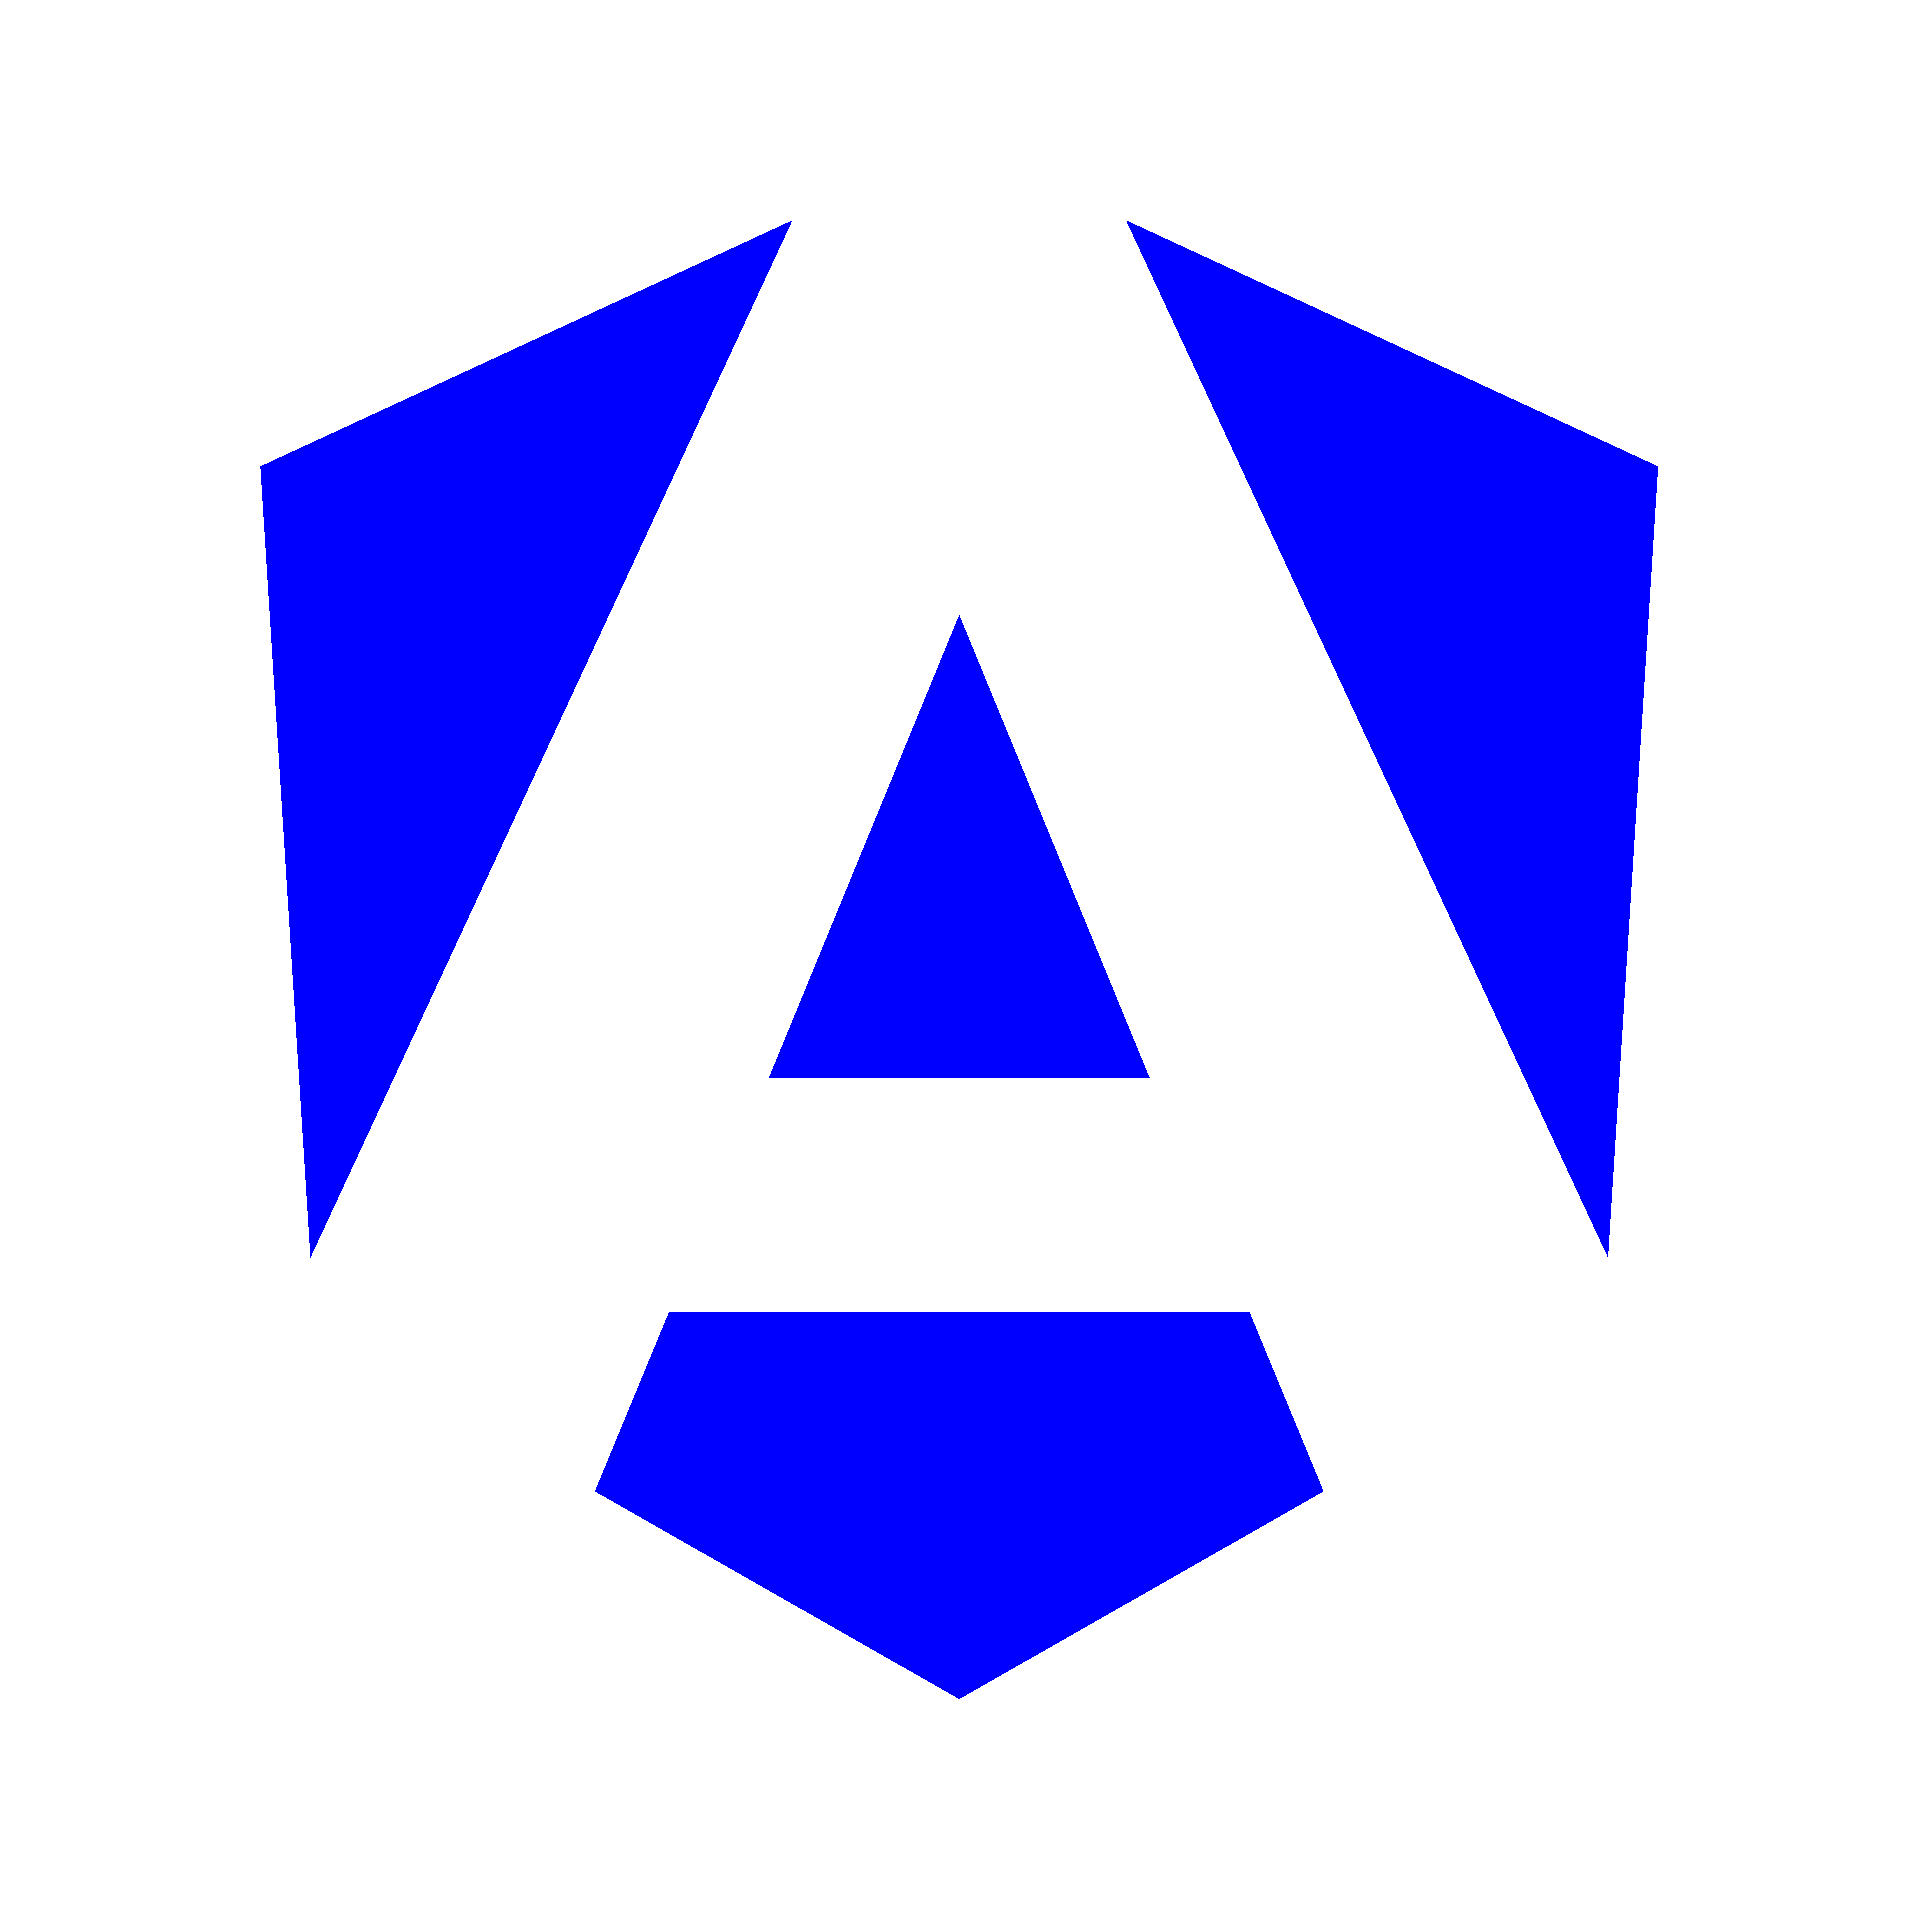
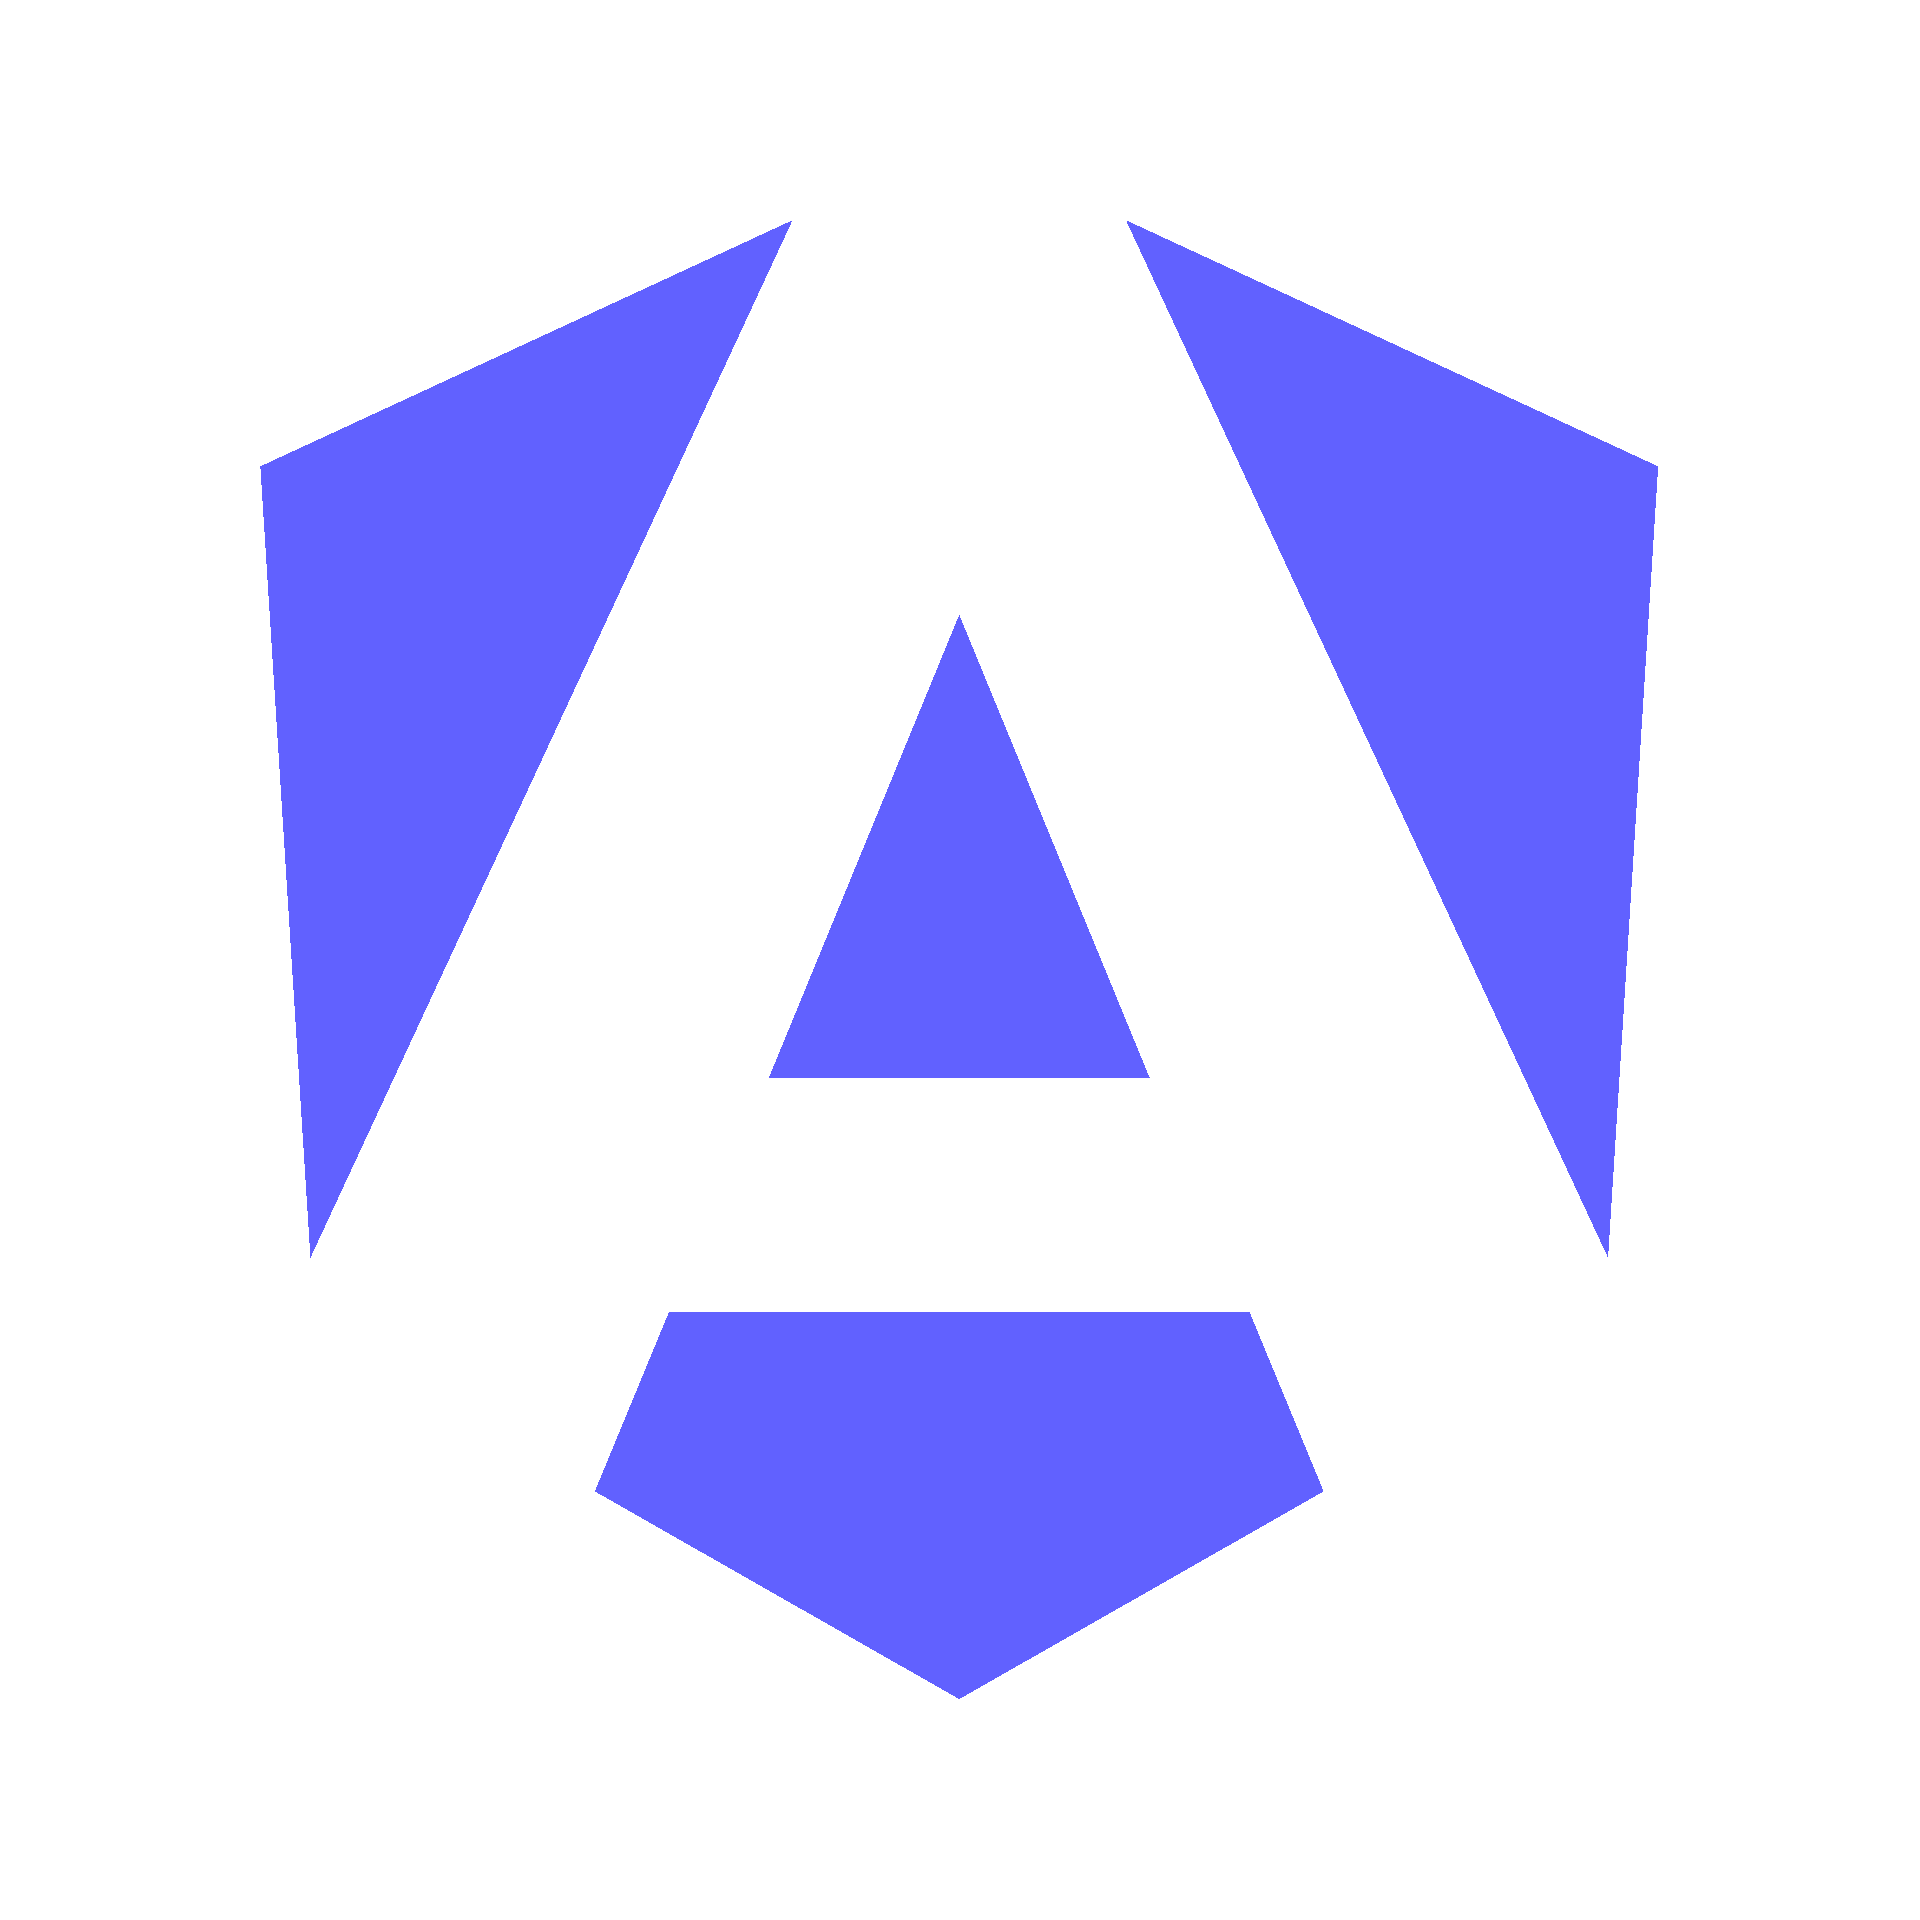
Modified contrasts

diff --git a/src/app/pages/main-page/main-page.component.css b/src/app/pages/main-page/main-page.component.css
@@ -48,7 +48,7 @@ section h2 {
 .title span:after {
   padding-left: 0.5rem;
   content: "Théotim ALBERTEAU";
-  color: blue;
+  color: var(--title);
   text-shadow: darkblue 0 0 7px;
   font-weight: 600;
   font-size: 4rem;
@@ -78,7 +78,7 @@ section h2 {
   justify-content: center;
   align-items: center;
 
-  background-color: blue;
+  background-color: var(--title);
   border: none;
   border-radius: 5px;
   box-shadow: 0 0 20px #113768;
@@ -169,7 +169,7 @@ section h2 {
 .trail {
   width: 0.8vw;
   height: 0.8vw;
-  background-color: blue;
+  background-color: var(--title);
   border-radius: 50%;
   position: absolute;
   left: 50%;
@@ -231,7 +231,7 @@ section h2 {
 
 .about-me span:after {
   content: "de Moi";
-  color: blue;
+  color: var(--title);
   text-shadow: darkblue 0 0 7px;
 }
 
@@ -240,8 +240,8 @@ section hr {
   margin-bottom: 4vh;
   width: 4vw;
   height: 4px;
-  background-color: blue;
-  box-shadow: 0 0 10px blue;
+  background-color: var(--title);
+  box-shadow: 0 0 10px var(--title);
   border: none;
 }
 
@@ -345,8 +345,8 @@ section hr {
 
 .my-skills span:after {
   content: "Compétences";
-  color: blue;
-  text-shadow: darkblue 0 0 7px;
+  color: var(--title);
+  text-shadow: darkblue 0 0 20px;
   font-weight: 600;
   font-size: 4rem;
 }
@@ -367,8 +367,8 @@ section hr {
 }
 
 .skill-card h3 {
-  color: blue;
-  text-shadow: darkblue 0 0 7px;
+  color: var(--title);
+  text-shadow: darkblue 0 0 20px;
   font-size: 1.5rem;
   font-weight: 600;
   text-align: center;
@@ -402,9 +402,9 @@ section hr {
 .skill-card-value .percent {
   flex-basis: 20%;
   text-align: right;
-  color: blue;
+  color: var(--title);
   font-weight: bold;
-  text-shadow: darkblue 0 0 2px;
+  text-shadow: darkblue 0 0 20px;
 }
 
 .progress-bar-container {
@@ -419,7 +419,7 @@ section hr {
 .progress-bar {
   width: calc(var(--percent) * 1%);
   height: 8px;
-  background-color: blue;
+  background-color: var(--title);
   box-shadow: 0 0 7px darkblue;
   border-radius: 15px;
   overflow: hidden;
@@ -446,7 +446,7 @@ section hr {
 
 .my-projects span:after {
   content: "Projets";
-  color: blue;
+  color: var(--title);
   text-shadow: darkblue 0 0 7px;
 }
 
@@ -488,7 +488,7 @@ section hr {
 .value-button:focus,
 .value-button.active-filter {
   transform: scale(1.05);
-  background-color: blue;
+  background-color: var(--title);
   border: 3px solid rgba(255, 255, 255, 0.3);
   overflow-x: visible;
 }
@@ -574,7 +574,7 @@ section hr {
   .trail {
     width: 1.5vw;
     height: 1.5vw;
-    background-color: blue;
+    background-color: var(--title);
     border-radius: 50%;
     position: absolute;
     left: 50%;
@@ -623,7 +623,7 @@ section hr {
 
   section hr {
     width: 10vw;
-    box-shadow: 0 0 10px blue;
+    box-shadow: 0 0 10px var(--title);
   }
 
   .large-card {

diff --git a/src/app/pages/main-page/main-page.component.html b/src/app/pages/main-page/main-page.component.html
@@ -8,7 +8,7 @@
         <div class="pres">
           <p>Étudiant en 2ème année de Développement informatique à Sup De Vinci Nantes</p>
           <p>J'utilise principalement le stack MEAN, Python, et C#</p>
-          <p>Grâce à ca, je développe surtout des applications webs optimisées et évolutives</p>
+          <p>Grâce à cela, je développe surtout des applications webs optimisées et évolutives</p>
         </div>
       </div>
 
@@ -58,9 +58,9 @@
           </p>
           <br>
           <p>
-            J'ai plusieurs projets en cours pour m'entrainer, dont ce site, produit en Angular.
             Mes compétences sont surtout basés sur le stack MEAN (MongoDB, Express, Angular, Nodejs),
-            mais j'ai aussi des compétences dans d'autres langages, comme C#, Python ou MySQL.
+            dont ce site qui sert principalement à consolider mes connaissances.
+            Mais j'ai aussi des compétences dans d'autres langages, comme C#, Python ou MySQL.
           </p>
         </div>
       </div>

diff --git a/src/app/pages/contact/contact.component.html b/src/app/pages/contact/contact.component.html
@@ -2,7 +2,7 @@
   <form action="https://api.web3forms.com/submit" method="POST" class="contact-left">
 
     <div class="contact-left-title">
-      <h2>Contactez Moi</h2>
+      <h2>Me Contacter</h2>
       <hr>
     </div>
 
@@ -14,7 +14,7 @@
 
     <textarea type="message" name="message" placeholder="Message" class="contact-inputs" required></textarea>
 
-    <button type="submit" class="contact-submit">Submit<img src="Assets/Contact/arrow.png" alt="arrow-submit" class="submit-arrow"></button>
+    <button type="submit" class="contact-submit">Envoyer<img src="Assets/Contact/arrow.png" alt="arrow-submit" class="submit-arrow"></button>
   </form>
   <div class="contact-right">
     <img src="Assets/Contact/contact-form.png" alt="contact-form-image">

diff --git a/src/styles.css b/src/styles.css
@@ -5,6 +5,7 @@
   --neutral: #7F8C8D;   /* Texte secondaire/Détails */
   --accent: #34495E;    /* Fond principal (header_container) */
   --dark: #000413;      /* Fond de pied de page/Ombres */
+  --title: #6161FF;
 }
 
 * {
